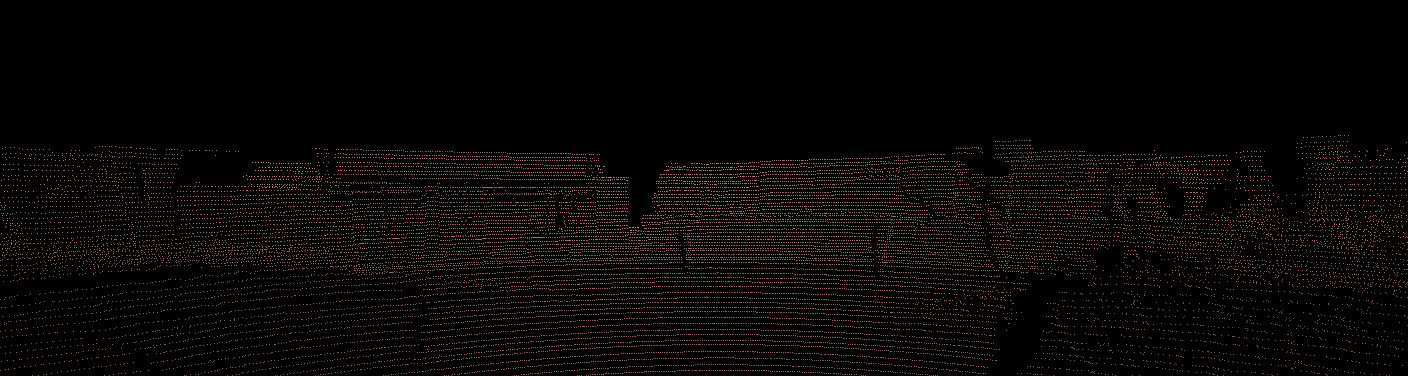
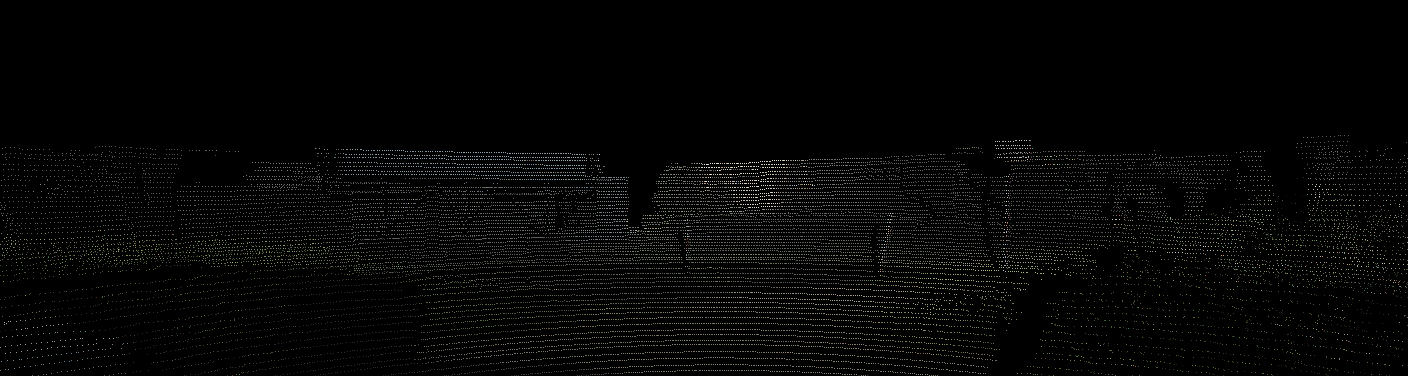
Fix numpy to open3d conversation

diff --git a/utils/cloud_utils.py b/utils/cloud_utils.py
@@ -22,18 +22,13 @@ def np_to_o3d_cloud(np_cloud: np.array) -> o3d.t.geometry.PointCloud:
     device = o3d.core.Device("CPU:0")
     dtype = o3d.core.float32
 
-    intensity = np_cloud[:, 3].flatten()
+    intensity = np.c_[np_cloud[:, 3], np_cloud[:, 3], np_cloud[:, 3]]
     points = np_cloud[:, :3]
     cloud = o3d.t.geometry.PointCloud(device)
     cloud.point.positions = o3d.core.Tensor(np.asarray(points), dtype, device)
     cloud.point.intensities = o3d.core.Tensor(np.asarray(intensity), dtype, device)
 
-    intensity = cloud.point.intensities.numpy()
-    max_tot = np.max(intensity)
-    source_attribute = intensity / max_tot
-    colors_map = cm.get_cmap('jet', 256)
-    source_colors = colors_map(source_attribute)
-    cloud.point.colors = o3d.core.Tensor(np.asarray(source_colors[:, :3]), dtype)
+    cloud.point.colors = cloud.point.intensities
 
     return cloud
 
@@ -47,15 +42,59 @@ def o3d_rgbd_to_np(cloud: o3d.t.geometry.PointCloud):
 
 
 def make_front_proj(cloud: np.array, width, height, intrinsic, extrinsic) -> np.array:
-    projection: o3d.t.geometry.RGBDImage = np_to_o3d_cloud(cloud).project_to_rgbd_image(width, height, intrinsic, extrinsic,
-                                                              depth_max=10000)
+    projection: o3d.t.geometry.RGBDImage = np_to_o3d_cloud(cloud).project_to_rgbd_image(width, height, intrinsic,
+                                                                                        extrinsic,
+                                                                                        depth_max=10000, depth_scale=1)
     intensity = projection.color.as_tensor().numpy()
     depth = np.log(np.maximum(0.0000001, projection.depth.as_tensor().numpy()))
     front = np.zeros((depth.shape[0], depth.shape[1], 2), dtype=np.float32)
     front[:, :, 0] = intensity[:, :, 0]
     front[:, :, 1] = depth[:, :, 0]
 
-    return front,  projection.color.as_tensor().numpy()
+    return front, projection.color.as_tensor().numpy()
+
+
+def _make_front_proj(cloud, width, height, intrinsic, extrinsic):
+    x = cloud[:, 0]
+    y = cloud[:, 1]
+    z = cloud[:, 2]
+    intensity = cloud[:, 3]
+    ranges = np.sqrt(x ** 2 + y ** 2 + z ** 2)
+    fov_down = np.deg2rad(17.8)
+    fov_up = np.deg2rad(-2)
+
+    ## For every point in cloud
+    # Get Euler angles
+    pitch_values = np.arcsin(z / ranges)
+    yaw_values = np.arctan2(y, x)
+    # Normalizing and scaling
+    fov = fov_up + np.abs(fov_down)
+    normalized_pitch = height * (1 - (pitch_values + np.abs(fov_down)) / fov)
+    normalized_yaw = width * 0.5 * (yaw_values / np.pi + 1)
+
+    # Round and clamp for use as index
+    u_values = np.floor(normalized_pitch)
+    v_values = np.floor(normalized_yaw)
+
+    v_values = np.minimum(width - 1, v_values)
+    v_values = np.maximum(0.0, v_values)
+
+    u_values = np.minimum(height - 1, u_values)
+    u_values = np.maximum(0.0, u_values)
+
+    # Get image coordinates
+    u_values = np.floor(u_values)
+    v_values = np.floor(v_values)
+    u_values = u_values.astype(np.int)
+    v_values = v_values.astype(np.int)
+
+    ## Build image from u, v
+    image = np.zeros([height, width, 1], dtype=np.uint8)
+    old_max = np.max(x)
+    old_min = np.min(x)
+    for i in range(np.size(u_values)):
+        image[u_values[i], v_values[i]] = image_utils.normalize(old_min, old_max, 0, 255, x[i])  # * 255
+        image[u_values[i], v_values[i]] = intensity[i] * 255
 
 
 def transform_cloud(cloud, transform):
@@ -100,7 +139,6 @@ def project_to_image(image: np.array, cloud: np.array, projection_mat: np.array,
     cloud = np.delete(cloud, 1, 0)
     projection = np.zeros(image.shape)
     u, v, depth = cam2image(cloud, [])
-
 
     return projection
 

diff --git a/utils/fusion.py b/utils/fusion.py
@@ -53,7 +53,7 @@ class Decomposer:
 
         convx = signal.convolve2d(image, gx, boundary='symm', mode='same')
         convy = signal.convolve2d(image, gy, boundary='symm', mode='same')
-        conv = image + self.lam * (convx ** 2 + convy ** 2)
+        conv = self.lam * (convx ** 2 + convy ** 2)
         conv = to01(conv)
         return conv
 
@@ -76,12 +76,19 @@ class Decomposer:
         return base, detail
 
 
+def find_density_channel(cloud):
+    density = np.arrray([])
+
+    return density
+
+
 def add_channel(cloud_):
     cloud = np.zeros((cloud_.shape[0], cloud_.shape[1], 3), dtype=np.float32)
     cloud[:, :, 0] = cloud_[:, :, 0]
     cloud[:, :, 1] = cloud_[:, :, 1]
     cloud[:, :, 2] = np.maximum(cloud_[:, :, 0], cloud_[:, :, 1])
     cloud[:, :, 2] = to01(cloud[:, :, 2])
+    # cloud[:, :, 2] = 0
     return cloud
 
 
@@ -107,7 +114,7 @@ class DetailFusion(nn.Module):
         self.transform = torchvision.transforms.Compose([
             torchvision.transforms.ToTensor()
         ])
-        self.encoder = models.mobilenet_v3_small(weights=models.MobileNet_V3_Small_Weights.IMAGENET1K_V1)
+        self.encoder = models.mobilenet_v3_large(weights=models.MobileNet_V3_Large_Weights.IMAGENET1K_V1)
         self.encoder = self.encoder.to('cuda')
 
         tensor_shape = (img1.shape[1], img1.shape[0], img1.shape[2])
@@ -176,8 +183,8 @@ class DetailFusion(nn.Module):
             w2 = weight_map2.feature_map
             w2 = np.reshape(w2, (w2.shape[1], w2.shape[2], w2.shape[3]))
 
-            #print(w1.shape)
-            #print(self.np_img1.shape)
+            # print(w1.shape)
+            # print(self.np_img1.shape)
             # TODO: make more accurate multiplication
             # assert(w1.shape == self.np_img1.shape)
 
@@ -190,7 +197,6 @@ class DetailFusion(nn.Module):
             final_map = np.maximum(final_map, layer.feature_map)
 
         final_map = to01(final_map)
-        print(final_map.shape)
 
         return final_map
 
@@ -203,7 +209,7 @@ class DetailFusion(nn.Module):
 
         map1 = self.feature_extractor(input1)
         map2 = self.feature_extractor(input2)
-        #print(f"Before feature extractor: {input1}, after: {map1}")
+        # print(f"Before feature extractor: {input1}, after: {map1}")
 
         feature_maps1 = np.array([])
         feature_maps2 = np.array([])
@@ -244,9 +250,9 @@ class BevImageFusion(nn.Module):
                                         self.roi)
 
         base_cloud, detail_cloud = Decomposer()(bev)
-        bev_color = cv2.cvtColor(bev_color, cv2.COLOR_RGB2HSV)
+        # bev_color = cv2.cvtColor(bev_color, cv2.COLOR_RGB2HSV)
         base_img, detail_img = Decomposer()(bev_color)
-        bev_color = cv2.cvtColor(bev_color, cv2.COLOR_HSV2RGB)
+        # bev_color = cv2.cvtColor(bev_color, cv2.COLOR_HSV2RGB)
 
         base_cloud = add_channel(base_cloud)
         detail_cloud = add_channel(detail_cloud)
@@ -281,9 +287,9 @@ class FrontImageFusion(nn.Module):
         ## Get base and detail components of image
         ## Probably need to convert to HSV
         ## In HSV channels are independent from each other
-        image = cv2.cvtColor(image, cv2.COLOR_RGB2HSV)
+        # image = cv2.cvtColor(image, cv2.COLOR_RGB2HSV)
         base_img, detail_img = Decomposer()(image)
-        image = cv2.cvtColor(image, cv2.COLOR_HSV2RGB)
+        # image = cv2.cvtColor(image, cv2.COLOR_HSV2RGB)
 
         base_cloud = add_channel(base_cloud)
         detail_cloud = add_channel(detail_cloud)

diff --git a/model.py b/model.py
@@ -17,7 +17,6 @@ class Model(nn.Module):
                                    projection='front')
         self.fusion2 = FusionLayer(params=self.params,
                                    projection='bev')
-        print(count_parameters(smp.Unet(encoder_name="mobilenet_v2")))
 
     def forward(self, cloud: np.array, img: np.array):
         fused_front = self.fusion1(cloud.copy(), img.copy())
